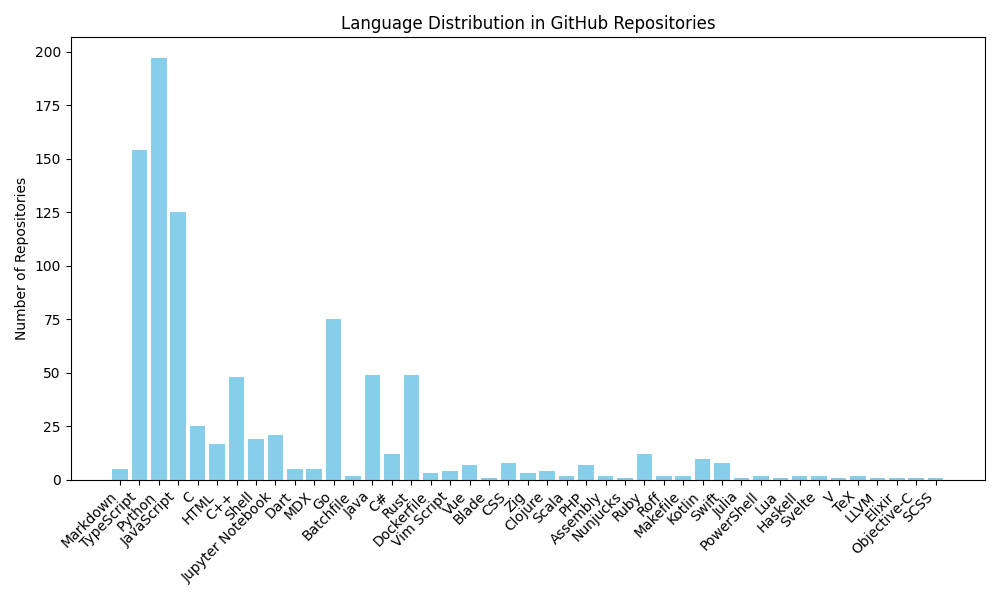
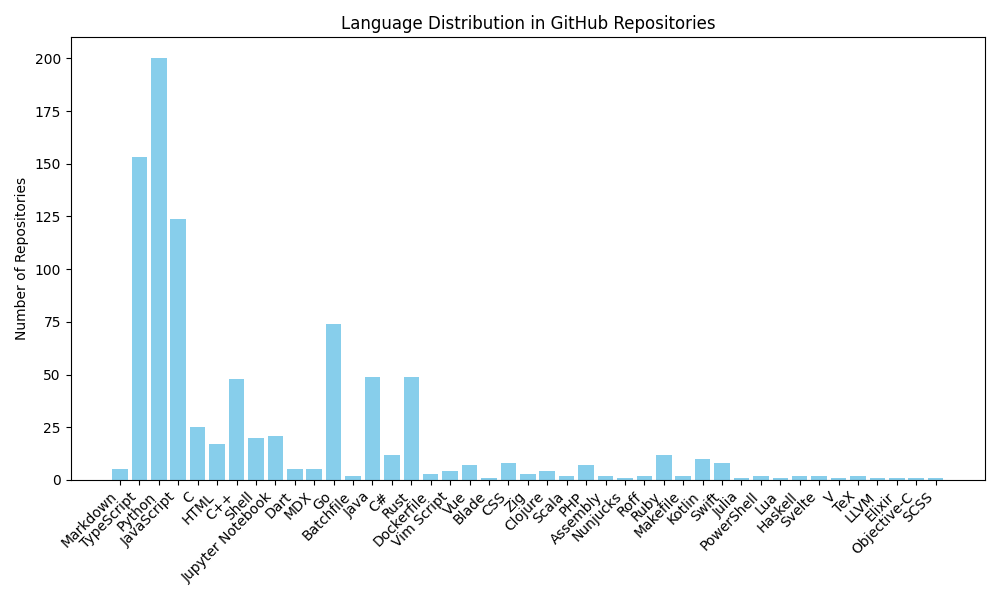
Update language distribution chart

diff --git a/README.md b/README.md
@@ -2,10 +2,10 @@
 
 ![Language Distribution Chart](language_distribution_bar_chart.png)
 
-Total repositories processed: 899
+Total repositories processed: 900
 
 Language distribution:
-Markdown: 5, TypeScript: 154, Python: 197, JavaScript: 125, C: 25, HTML: 17, C++: 48, Shell: 19, Jupyter Notebook: 21, Dart: 5, MDX: 5, Go: 75, Batchfile: 2, Java: 49, C#: 12, Rust: 49, Dockerfile: 3, Vim Script: 4, Vue: 7, Blade: 1, CSS: 8, Zig: 3, Clojure: 4, Scala: 2, PHP: 7, Assembly: 2, Nunjucks: 1, Ruby: 12, Roff: 2, Makefile: 2, Kotlin: 10, Swift: 8, Julia: 1, PowerShell: 2, Lua: 1, Haskell: 2, Svelte: 2, V: 1, TeX: 2, LLVM: 1, Elixir: 1, Objective-C: 1, SCSS: 1
+Markdown: 5, TypeScript: 153, Python: 200, JavaScript: 124, C: 25, HTML: 17, C++: 48, Shell: 20, Jupyter Notebook: 21, Dart: 5, MDX: 5, Go: 74, Batchfile: 2, Java: 49, C#: 12, Rust: 49, Dockerfile: 3, Vim Script: 4, Vue: 7, Blade: 1, CSS: 8, Zig: 3, Clojure: 4, Scala: 2, PHP: 7, Assembly: 2, Nunjucks: 1, Roff: 2, Ruby: 12, Makefile: 2, Kotlin: 10, Swift: 8, Julia: 1, PowerShell: 2, Lua: 1, Haskell: 2, Svelte: 2, V: 1, TeX: 2, LLVM: 1, Elixir: 1, Objective-C: 1, SCSS: 1
 
 
-_Last updated: 2025-11-16 01:17:28_
+_Last updated: 2025-11-23 01:21:54_
